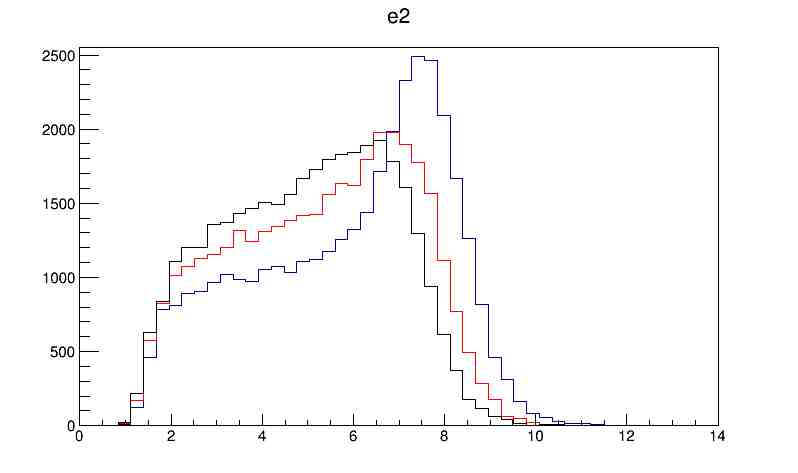
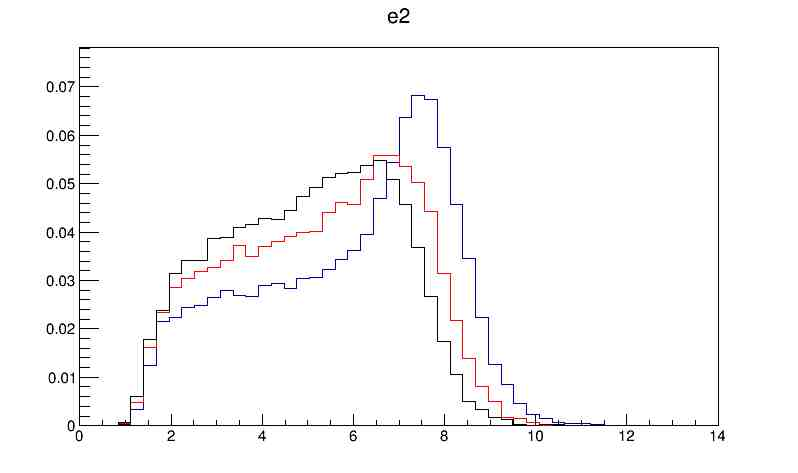
Write functions and make plots for Girth and NSubjettiness
Also all the plots are normalized now

diff --git a/analysis-code/fastjet-analysis.cc b/analysis-code/fastjet-analysis.cc
@@ -2,6 +2,12 @@
 #include "fastjet/PseudoJet.hh"
 #include "fastjet/ClusterSequence.hh"
 #include "fastjet/contrib/SoftDrop.hh"
+#include "fastjet/contrib/Njettiness.hh"
+#include "fastjet/contrib/NjettinessPlugin.hh"
+#include "fastjet/contrib/Nsubjettiness.hh"
+double girth(fastjet::PseudoJet this_jet);
+double Nsubjet(fastjet::PseudoJet this_jet);
+double e_alpha(fastjet::PseudoJet this_jet,double Rparam,double alpha);
 void root_to_fastjet(Float_t *px,Float_t *py,Float_t *pz,Float_t *e,Int_t *particle_status,Int_t *particle_PID,
         Int_t n_event_size ,std::vector<float> &e2,double *a){
   std::ifstream fjetin("settings-fastjet.txt");
@@ -10,7 +16,7 @@ void root_to_fastjet(Float_t *px,Float_t *py,Float_t *pz,Float_t *e,Int_t *parti
   double beta  = a[2];
   double ptcutoff = a[3];
   std::vector <fastjet::PseudoJet> fjInputs;
-  double Rparam = 0.8;
+  double Rparam = 0.4;
   fastjet::Strategy               strategy = fastjet::Best;
   fastjet::RecombinationScheme    recombScheme = fastjet::E_scheme;
   //fastjet::RecombinationScheme    recombScheme = fastjet::WTA_pt_scheme;
@@ -50,8 +56,8 @@ void root_to_fastjet(Float_t *px,Float_t *py,Float_t *pz,Float_t *e,Int_t *parti
   for (unsigned ijet = 0; ijet < jets.size(); ijet++) {
     // Run SoftDrop and examine the output
     fastjet::PseudoJet sd_jet = sd(jets[ijet]);
-    
-    assert(sd_jet != 0); //because soft drop is a groomer (not a tagger), it should always return a soft-dropped jet
+    //fastjet::PseudoJet sd_jet = jets[ijet];
+    assert(sd_jet != 0);
     soft_jets_temp.push_back(sd_jet); 
     //Softdrop loop
   }
@@ -66,16 +72,35 @@ void root_to_fastjet(Float_t *px,Float_t *py,Float_t *pz,Float_t *e,Int_t *parti
   std::vector<fastjet::PseudoJet> soft_jets = fastjet::sorted_by_pt(clustSeq2.inclusive_jets(0.0));
   */
    std::vector<fastjet::PseudoJet> soft_jets = fastjet::sorted_by_pt(soft_jets_temp);
-  double e_2 = 0;
+  double e_2 = 42;
   for( unsigned ijet = 0; ijet < soft_jets.size();ijet++){
     if(soft_jets[ijet].pt() < ptcutoff) continue;
-    e_2 = 0;
-    std::vector<fastjet::PseudoJet> constituents = soft_jets[ijet].constituents();
-    for( unsigned iconst = 0;iconst < constituents.size();iconst++){
-    e_2 += constituents[iconst].pt()/soft_jets[ijet].pt() * pow(soft_jets[ijet].delta_R(constituents[iconst])/Rparam,alpha);
-    }
-   e2.push_back(-log(e_2));
-   break;
+     //e_2 = e_alpha(soft_jets[ijet],Rparam,alpha);
+     //e_2 = Nsubjet(soft_jets[ijet]);
+     e_2 = girth(soft_jets[ijet]);
+     e2.push_back(-log(e_2));
+     break;
   }//Jet Constituent Loop 
 }//Function Ends here
 
+double e_alpha(fastjet::PseudoJet this_jet,double Rparam,double alpha){
+    double e_2 = 0;
+    std::vector<fastjet::PseudoJet> constituents = this_jet.constituents();
+    for( unsigned iconst = 0;iconst < constituents.size();iconst++){
+    e_2 += constituents[iconst].pt()/this_jet.pt() * pow(this_jet.delta_R(constituents[iconst])/Rparam,alpha);
+    }
+    return e_2;
+}
+
+
+double Nsubjet(fastjet::PseudoJet this_jet){
+  double beta = 0.5;
+  //fastjet::contrib::Nsubjettiness nSub1_beta1(2,fastjet::contrib::MultiPass_Axes(100), fastjet::contrib::UnnormalizedMeasure(beta));
+  fastjet::contrib::Nsubjettiness nSub1_beta1(2,fastjet::contrib::MultiPass_Axes(100), fastjet::contrib::NormalizedMeasure(beta,0.6));
+  double  tau =  nSub1_beta1(this_jet);
+  return tau;
+}
+
+double girth(fastjet::PseudoJet this_jet){
+    return e_alpha(this_jet,1,1); 
+}

diff --git a/analysis-code/root_code.C b/analysis-code/root_code.C
@@ -1,0 +1,29 @@
+void root_code(){
+  TCanvas *c1 = new TCanvas("c1","c1",800,500);
+  //gStyle->SetOptStat(kFALSE);
+  //Load the files
+  TFile *_file1 = TFile::Open("../plots/tau/gluon_1e5_13tev.root");
+  TFile *_file2 = TFile::Open("../plots/tau/quark_1e5_13tev.root");
+  //Get the Histograms
+  TH1F *h1 = (TH1F*)_file1->Get("hist");
+  TH1F *h2 = (TH1F*)_file2->Get("hist");
+  //Normalising the Histograms
+  Float_t norm = 1.0;
+  h1->Scale(norm/h1->Integral());
+  h2->Scale(norm/h2->Integral());
+//Drawing the histograms
+Float_t max = 0;
+if(h1->GetMaximum() > max ) max = h1->GetMaximum();
+if(h2->GetMaximum() > max ) max = h2->GetMaximum();
+max += 0.1*max;
+h1->SetMaximum(max);
+h2->SetMaximum(max);
+
+
+h2->SetLineColor(kRed);
+h1->Draw("hist");
+h2->Draw("SAME:hist"); 
+c1->Print("plot.png");
+exit(0);
+}
+

diff --git a/analysis-code/main-analysis.cc b/analysis-code/main-analysis.cc
@@ -84,7 +84,7 @@ int main(){
      }
      std::cout<<"Size of main    :"<<e2_main.size()<<std::endl;
      std::cout<<"Max Size of main    :"<<e2_main.max_size()<<std::endl;
-     TH1 *e2_hist = new TH1F("e2","e2",50,0,14);
+     TH1 *e2_hist = new TH1F("hist","hist",50,0,14);
      add_to_hist(e2_main,e2_hist);
      hist_to_file(e2_hist,a);
   } 

diff --git a/README.md b/README.md
@@ -29,15 +29,32 @@ Where,
 
 
 Reference for the formula of e_2 [[https://arxiv.org/pdf/1704.03878.pdf]]
+
+## Girth
+ The Formula for Girth
+
+![](http://latex.codecogs.com/svg.latex?g%20%3D%20%5Csum%5Climits_%7B%20i%20%5Cin%20jet%7D%20%5Cfrac%7Bp_T%5Ei%7D%7Bp_T%5E%7Bjet%7D%7Dr_i)
+
+We can see this is the same as the formula for e_alpha with alpha = 1 and R = 1
+
+## Tau
+ Tau was calcualted using the routine from fastjet contrib
+
 # Plots
- For all the plots the histogram of e_2 was plotted in a logarithmic scale
 
-##Reclustering after softdrop with the default CA algo.
+ For all the plots the are plotted in a logarithmic scale
 
-### Quarks
-![](./plots/1e5/zcut_0.2_beta_2/log_e2_quarks.jpg)
-### Gluons
-![](./plots/1e5/zcut_0.2_beta_2/log_e2_gluons.jpg)
+For all the Plots the blue lines represent the Gluons and the Red lines represent the Quarks
+## Reclustering after softdrop with the defafault CA Algo
+
+### E2
+
+![](./plots/e2.png)
+### Girth
+![](./plots/girth.png)
+### SubJettiness
+Normalized with Jet size of 0.6 and Beta = 0.5
+![](./plots/tau.png)
 
 ## Varying the Value of Alpha_S in timelike showers 
 
